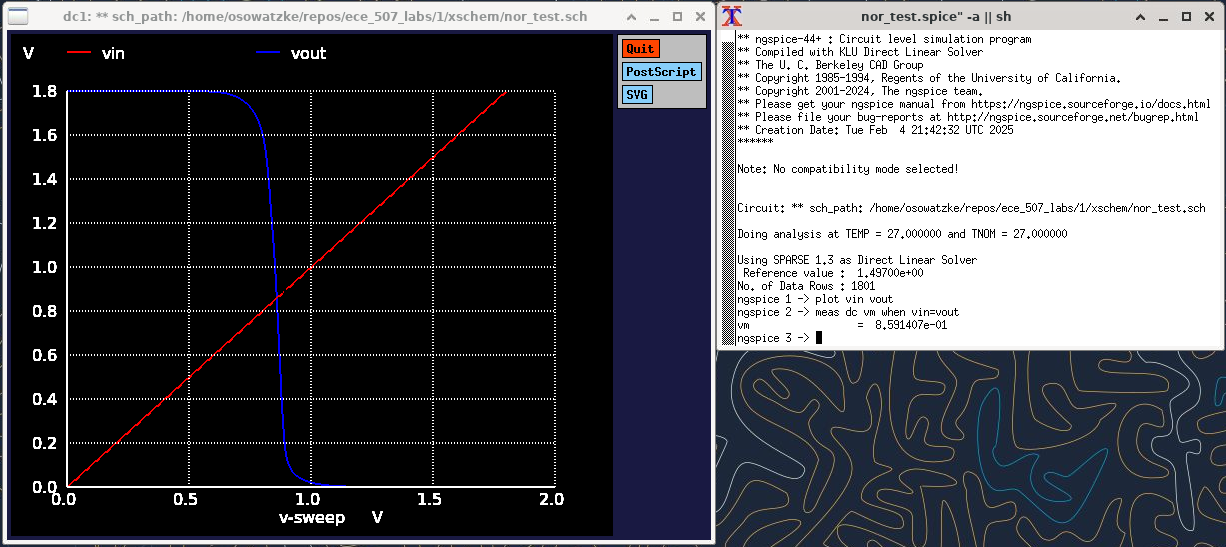
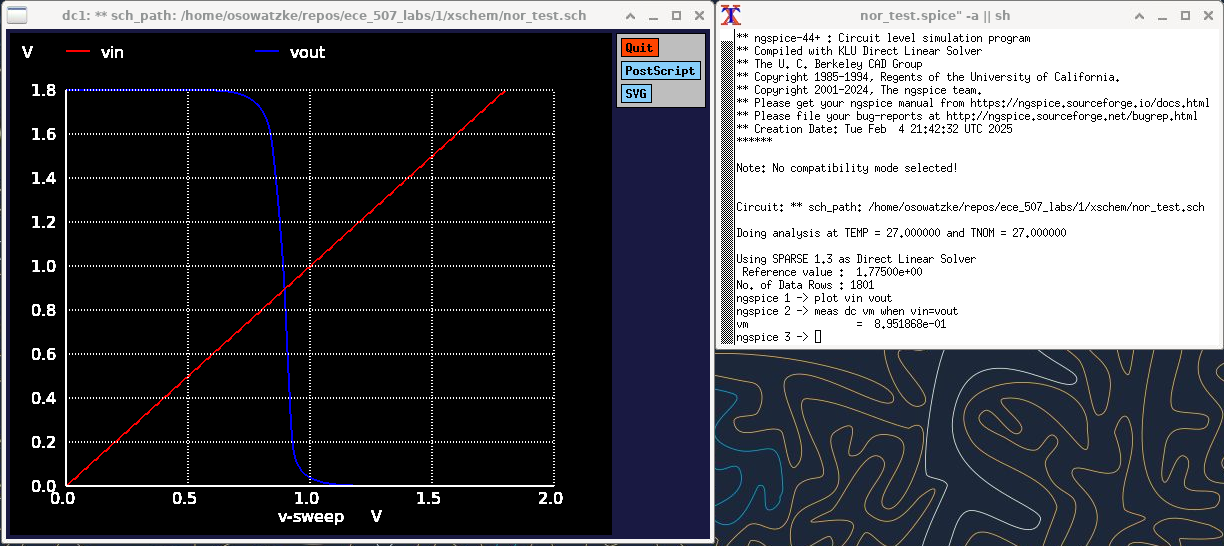
Saving VTC and delay updates for nor gate analysis

diff --git a/1/lab_report.tex b/1/lab_report.tex
@@ -417,77 +417,92 @@
 
 	\subsubsection{Voltage Transfer Characteristics}
 	
-	In this section, we analyze the voltage transfer characteristics (VTC) of our NOR gate. For this analysis, we analyze the VTC when varying \texttt{a} and \texttt{b} independently and when varying \texttt{a} and \texttt{b} together. The test circuit we use when just varying the input \texttt{a} is included in Figure \ref{fig::nor_vtc_test_sweep_va}.
+	In this section, we analyze the voltage transfer characteristics (VTC) of our NOR gate. For this analysis, we need to analyze the VTC for all combinations of inputs that lead to a logic level change. To generate the VTC in ngspice, we only need to consider one set of transitions because we care about the steady state output voltages for each input voltage. As such, we analyze the input voltages that result in high-to-low transitions. These voltages are dictated in Table \ref{table::nor_gate_high_to_low_transitions}.
+	
+	\begin{table}[H]
+	\begin{center}
+	\caption{Inputs that Create High to Low Transition for NOR Gate}
+	\label{table::nor_gate_high_to_low_transitions}
+	\begin{tabular}{| c | c |}
+		\hline
+		\texttt{a} & \texttt{b} \\
+		\hline	
+		$0 \rightarrow 1$ & $0$\\
+		\hline	
+		$0$ & $0 \rightarrow 1$\\
+		\hline	
+		$0 \rightarrow 1$ & $0 \rightarrow 1$\\
+		\hline
+	\end{tabular}
+	\end{center}
+	\end{table}
+	
+	\noindent The test circuit we use to generate the VTC for the first entry in the above table is shown in Figure \ref{fig::nor_vtc_test_sweep_va}.
 	
 	\begin{figure}[H]
 		\centerline{\includegraphics[width=0.8\textwidth]{nor_vtc_test_sweep_va.png}}
-		\caption{NOR VTC Test Circuit for Independent Variations of Input \texttt{a}}
+		\caption{NOR VTC Test Circuit for Variations of \texttt{a} with \texttt{b=0}}
 		\label{fig::nor_vtc_test_sweep_va}
-	\end{figure}
+	\end{figure}	
 	
-	Using this test circuit, we perform DC analysis to determine the VTC and find \texttt{Va}, which is the voltage at which \texttt{Vin = Vout}. The results of this analysis are shown in Figure \ref{fig::nor_vtc_sweep_va}.
+	\noindent Using this test circuit, we perform DC analysis to generate the VTC and find \texttt{Vm}, which is the voltage at which \texttt{Vin = Vout}. The results of this analysis are shown in Figure \ref{fig::nor_vtc_sweep_va}.
 	
 	\begin{figure}[H]
 		\centerline{\includegraphics[width=0.8\textwidth]{nor_vtc_sweep_va.png}}
-		\caption{NOR VTC Results for Independent Variations of Input \texttt{a}}
+		\caption{NOR VTC Results for Variations of \texttt{a} with \texttt{b=0}}
 		\label{fig::nor_vtc_sweep_va}
 	\end{figure}
 	
-	Examining the results, we find that \texttt{Vm = 0.8591V}. We perform similar analysis for independent variations of the input \texttt{b}. The test circuit and results are attached in figures \ref{fig::nor_vtc_test_sweep_vb} and \ref{fig::nor_vtc_sweep_vb} independently.
+	Examining the results, we find that \texttt{Vm = 0.8952V}. With slight modifications to our test circuit, we perform similar analysis to find \texttt{Vm} for the other sets inputs listed in Table \ref{table::nor_gate_high_to_low_transitions}. These results are included in Table \ref{table::nor_gate_vm}.
 	
-	\begin{figure}[H]
-		\centerline{\includegraphics[width=0.8\textwidth]{nor_vtc_test_sweep_vb.png}}
-		\caption{NOR VTC Test Circuit for Independent Variations of Input \texttt{b}}
-		\label{fig::nor_vtc_test_sweep_vb}
-	\end{figure}
+	\begin{table}[H]
+	\begin{center}
+	\caption{\texttt{Vm} for Each Set of Inputs That Result in an Output Logic Level Change}
+	\label{table::nor_gate_vm}
+	\begin{tabular}{| c | c | c |}
+		\hline
+		\texttt{a} & \texttt{b} & \texttt{Vm}\\
+		\hline	
+		$0 \rightarrow 1$ & $0$ & $0.8952 \text{V}$\\
+		\hline	
+		$1$ & $0 \rightarrow 1$ & $0.8919 \text{V}$\\
+		\hline	
+		$0 \rightarrow 1$ & $0 \rightarrow 1$ & $0.8078 \text{V}$\\
+		\hline
+	\end{tabular}
+	\end{center}
+	\end{table}
 	
-	\begin{figure}[H]
-		\centerline{\includegraphics[width=0.8\textwidth]{nor_vtc_sweep_vb.png}}
-		\caption{NOR VTC Results for Independent Variations of Input \texttt{b}}
-		\label{fig::nor_vtc_sweep_vb}
-	\end{figure}
-	
-	Examining the results, we find that \texttt{Vm = 0.8531V}. Finally, we sweep both inputs \texttt{a} and \texttt{b} together. The test circuit and results for this analysis are included in Figures \ref{fig::nor_vtc_test_sweep_va_vb} and \ref{fig::nor_vtc_sweep_va_vb} respectively.
-	
-	\begin{figure}[H]
-		\centerline{\includegraphics[width=0.8\textwidth]{nor_vtc_test_sweep_va_vb.png}}
-		\caption{NOR VTC Test Circuit for Joint Variations of Inputs \texttt{a} and \texttt{b}}
-		\label{fig::nor_vtc_test_sweep_va_vb}
-	\end{figure}
-	
-	\begin{figure}[H]
-		\centerline{\includegraphics[width=0.8\textwidth]{nor_vtc_sweep_va_vb.png}}
-		\caption{NOR VTC Results for Joint Variations of Inputs \texttt{a} and \texttt{b}}
-		\label{fig::nor_vtc_sweep_va_vb}
-	\end{figure}
-	
-	Examining the results, we find that \texttt{Vm = 0.7772V}.
+	\noindent Reviewing our captured results, we see that \texttt{Vm} is dependent on the gate inputs. \texttt{Vm} is the smallest when both gates switch at the same time. This makes sense because our pull-down network is strongest in this case, causing \texttt{Vm} to shift to the left.
 	
 	\subsubsection{Noise Analysis}
 	
-	In this section, we perform noise analysis of the NOR circuit following the process outlined for the NAND gate in Section \ref{section::nand_noise_analysis}. For this analysis, we use the test circuits shown in Figures \ref{fig::nor_vtc_test_sweep_va}, \ref{fig::nor_vtc_test_sweep_vb}, and \ref{fig::nor_vtc_test_sweep_va_vb}. We specifically use the test circuits to measure the noise margins, which are defined in Equations \ref{eq::noise_margin_high} and \ref{eq::noise_margin_low}. For the case in which we only vary the input \texttt{a}, we can identify the unity gain points ($V_{IH}$ and $V_{IL}$) and the corresponding noise margins as follows:
+	Using the test circuit shown in Figure \ref{fig::nor_vtc_test_sweep_va}, we can also measure the noise margins, which are defined by Equations \ref{eq::noise_margin_high} and \ref{eq::noise_margin_low}. In the referenced formulas, $V_{IH}$ and $V_{IL}$ are defined as the unity points of the gain function, where the gain is defined as the derivative of the VTC. For the case in which we vary \texttt{a} with \texttt{b=0}, we can identify the unity gain points and solve for the noise margins.
 	
 	\begin{figure}[H]
 		\centerline{\includegraphics[width=0.8\textwidth]{nor_noise_analysis_sweep_va.png}}
-		\caption{Measuring \texttt{Vil} for the NOR Gate when Input Variations are Limited to Input \texttt{a}}
-		\label{fig::nor_noise_analysis_sweep_va}
+		\caption{Measuring Noise Margins for the NOR Gate when \texttt{a} is Varied and \texttt{b=0}}	\label{fig::nor_noise_analysis_sweep_va}
 	\end{figure}
 	
-	Examining the ngspice outputs, we find that \texttt{Vil = 0.7336 V} and \texttt{Vih = 0.9354 V}. This implies that \texttt{Nmh = 1.8 V - 0.9354 V = 0.8646 V} and \texttt{Nml = 0.7336 V}. We can repeat this analysis for independent variations of the input \texttt{b} and for joint variations of inputs \texttt{a} and \texttt{b}. The ngspice outputs for this analysis are included in Figure \ref{fig::nor_noise_analysis_sweep_vb} and \ref{fig::nor_noise_analysis_sweep_va_vb}.
+	Examining the outputs shown in Figure \ref{fig::nor_noise_analysis_sweep_va}, we find that \texttt{Vil = 0.7756 V} and \texttt{Vih = 0.9764 V}. This implies that \texttt{Nmh = 1.8 V - 0.9764 V = 0.8326 V} and \texttt{Nml = 0.7756 V - 0 V = 0.7756 V}. With slight modifications to the test circuit, we can measure the noise margins for the sets of inputs listed in Table \ref{table::nor_gate_high_to_low_transitions}. Our results for this analysis are listed in Table \ref{table::nor_gate_noise_analysis}.
 	
-	\begin{figure}[H]
-		\centerline{\includegraphics[width=0.8\textwidth]{nor_noise_analysis_sweep_vb.png}}
-		\caption{Measuring \texttt{Vil} for the NOR Gate when Input Variations are Limited to Input \texttt{b}}
-		\label{fig::nor_noise_analysis_sweep_vb}
-	\end{figure}
-	
-	\begin{figure}[H]
-		\centerline{\includegraphics[width=0.8\textwidth]{nor_noise_analysis_sweep_va_vb.png}}
-		\caption{Measuring \texttt{Vil} for the NOR Gate when Inputs \texttt{a} and \texttt{b} are Varied Together}
-		\label{fig::nor_noise_analysis_sweep_va_vb}
-	\end{figure}
-	
-	Examining the outputs, we find that the noise margins are defined as \texttt{Nmh = 0.8426 V} and \texttt{Nml = 0.7296 V} when input variations are limited to input \texttt{b}. When we vary the inputs \texttt{a} and \texttt{b} in unison, we find that the noise margins are \texttt{Nmh = 0.9486 V} and \texttt{Nml = 0.6656 V}.
+	\begin{table}[H]
+	\begin{center}
+	\caption{Noise Margins for Each Set of Inputs That Result in an Output Logic Level Change}
+	\label{table::nor_gate_noise_analysis}
+	\begin{tabular}{| c | c | c | c | c | c |}
+		\hline
+		\texttt{a} & \texttt{b} & \texttt{Vih} & \texttt{Vil} & \texttt{Nmh} & \texttt{Nml} \\
+		\hline	
+		$0 \rightarrow 1$ & $0$ & $0.9764 \text{V}$ & $0.7756 \text{V}$ & $0.8326 \text{V}$ & $0.7756 \text{V}$\\
+		\hline	
+		$1$ & $0 \rightarrow 1$ & $1.0134 \text{V}$ & $0.7706 \text{V}$ & $0.7660 \text{V}$ & $0.7706 \text{V}$\\
+		\hline	
+		$0 \rightarrow 1$ & $0 \rightarrow 1$ & $0.7006 \text{V}$ & $0.8844 \text{V}$ & $0.9156 \text{V}$ & $0.7006 \text{V}$\\
+		\hline
+	\end{tabular}
+	\end{center}
+	\end{table}
 	
 	\subsubsection{Delay Analysis}
 	
